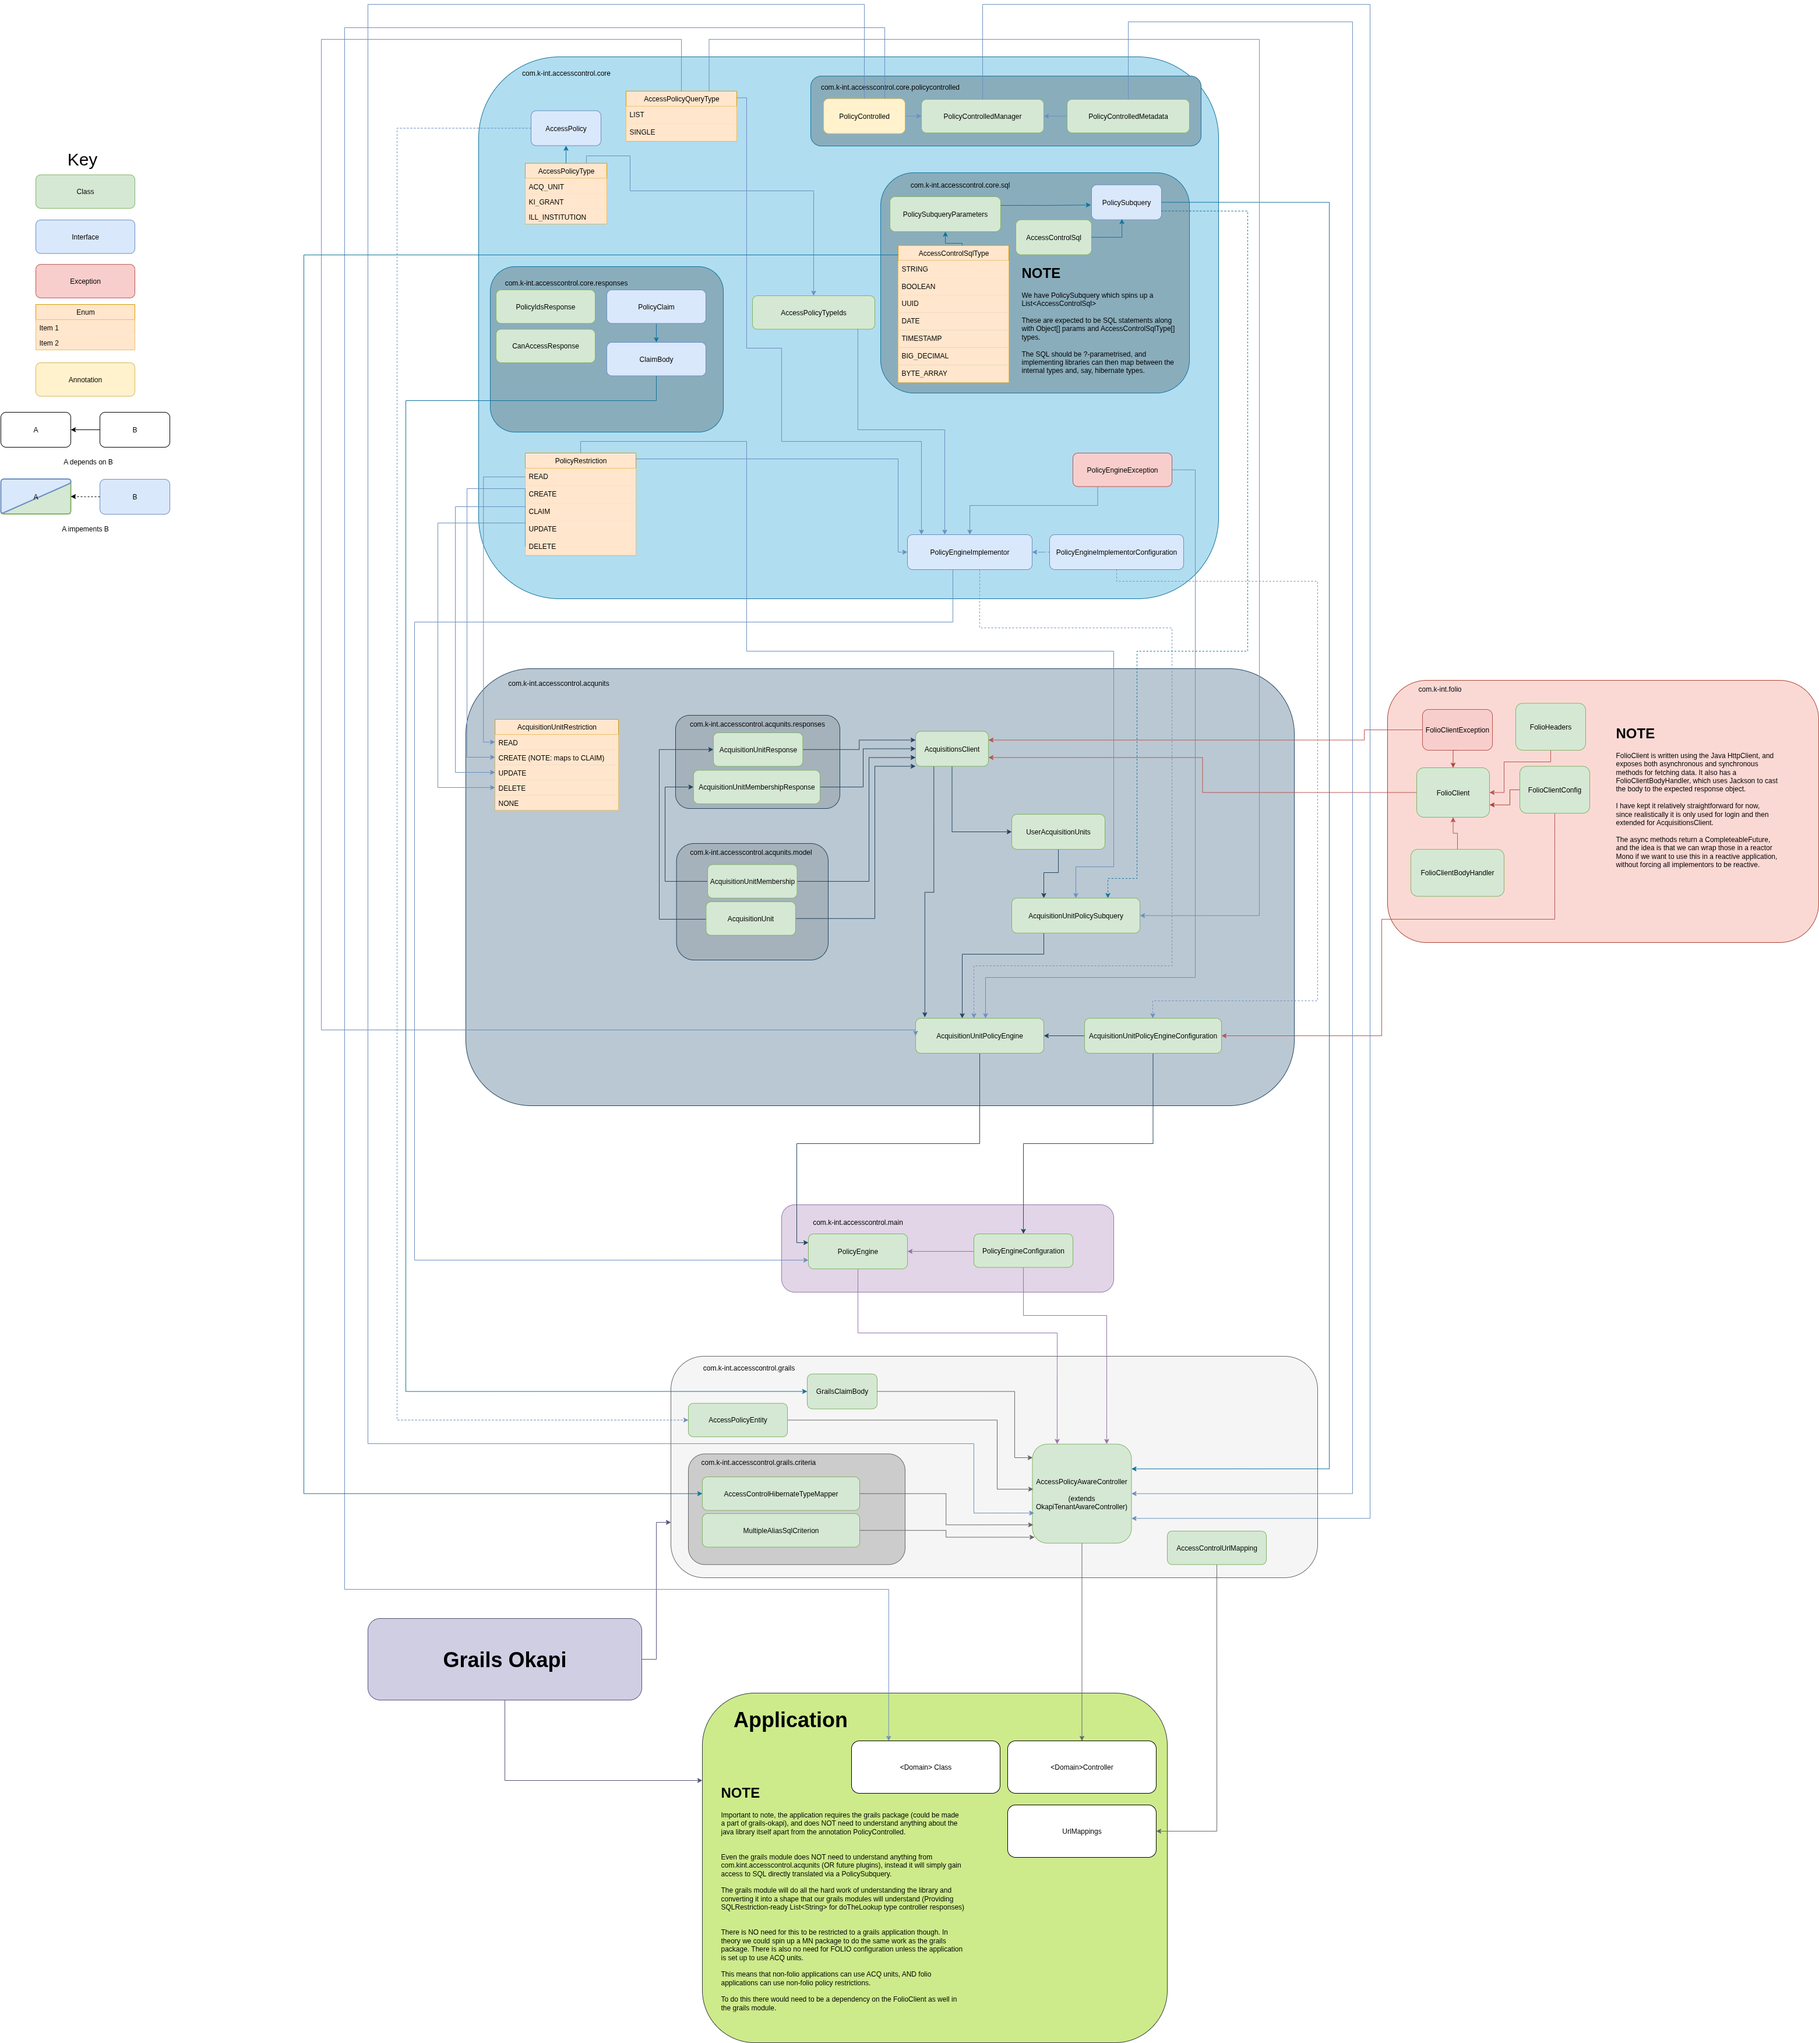
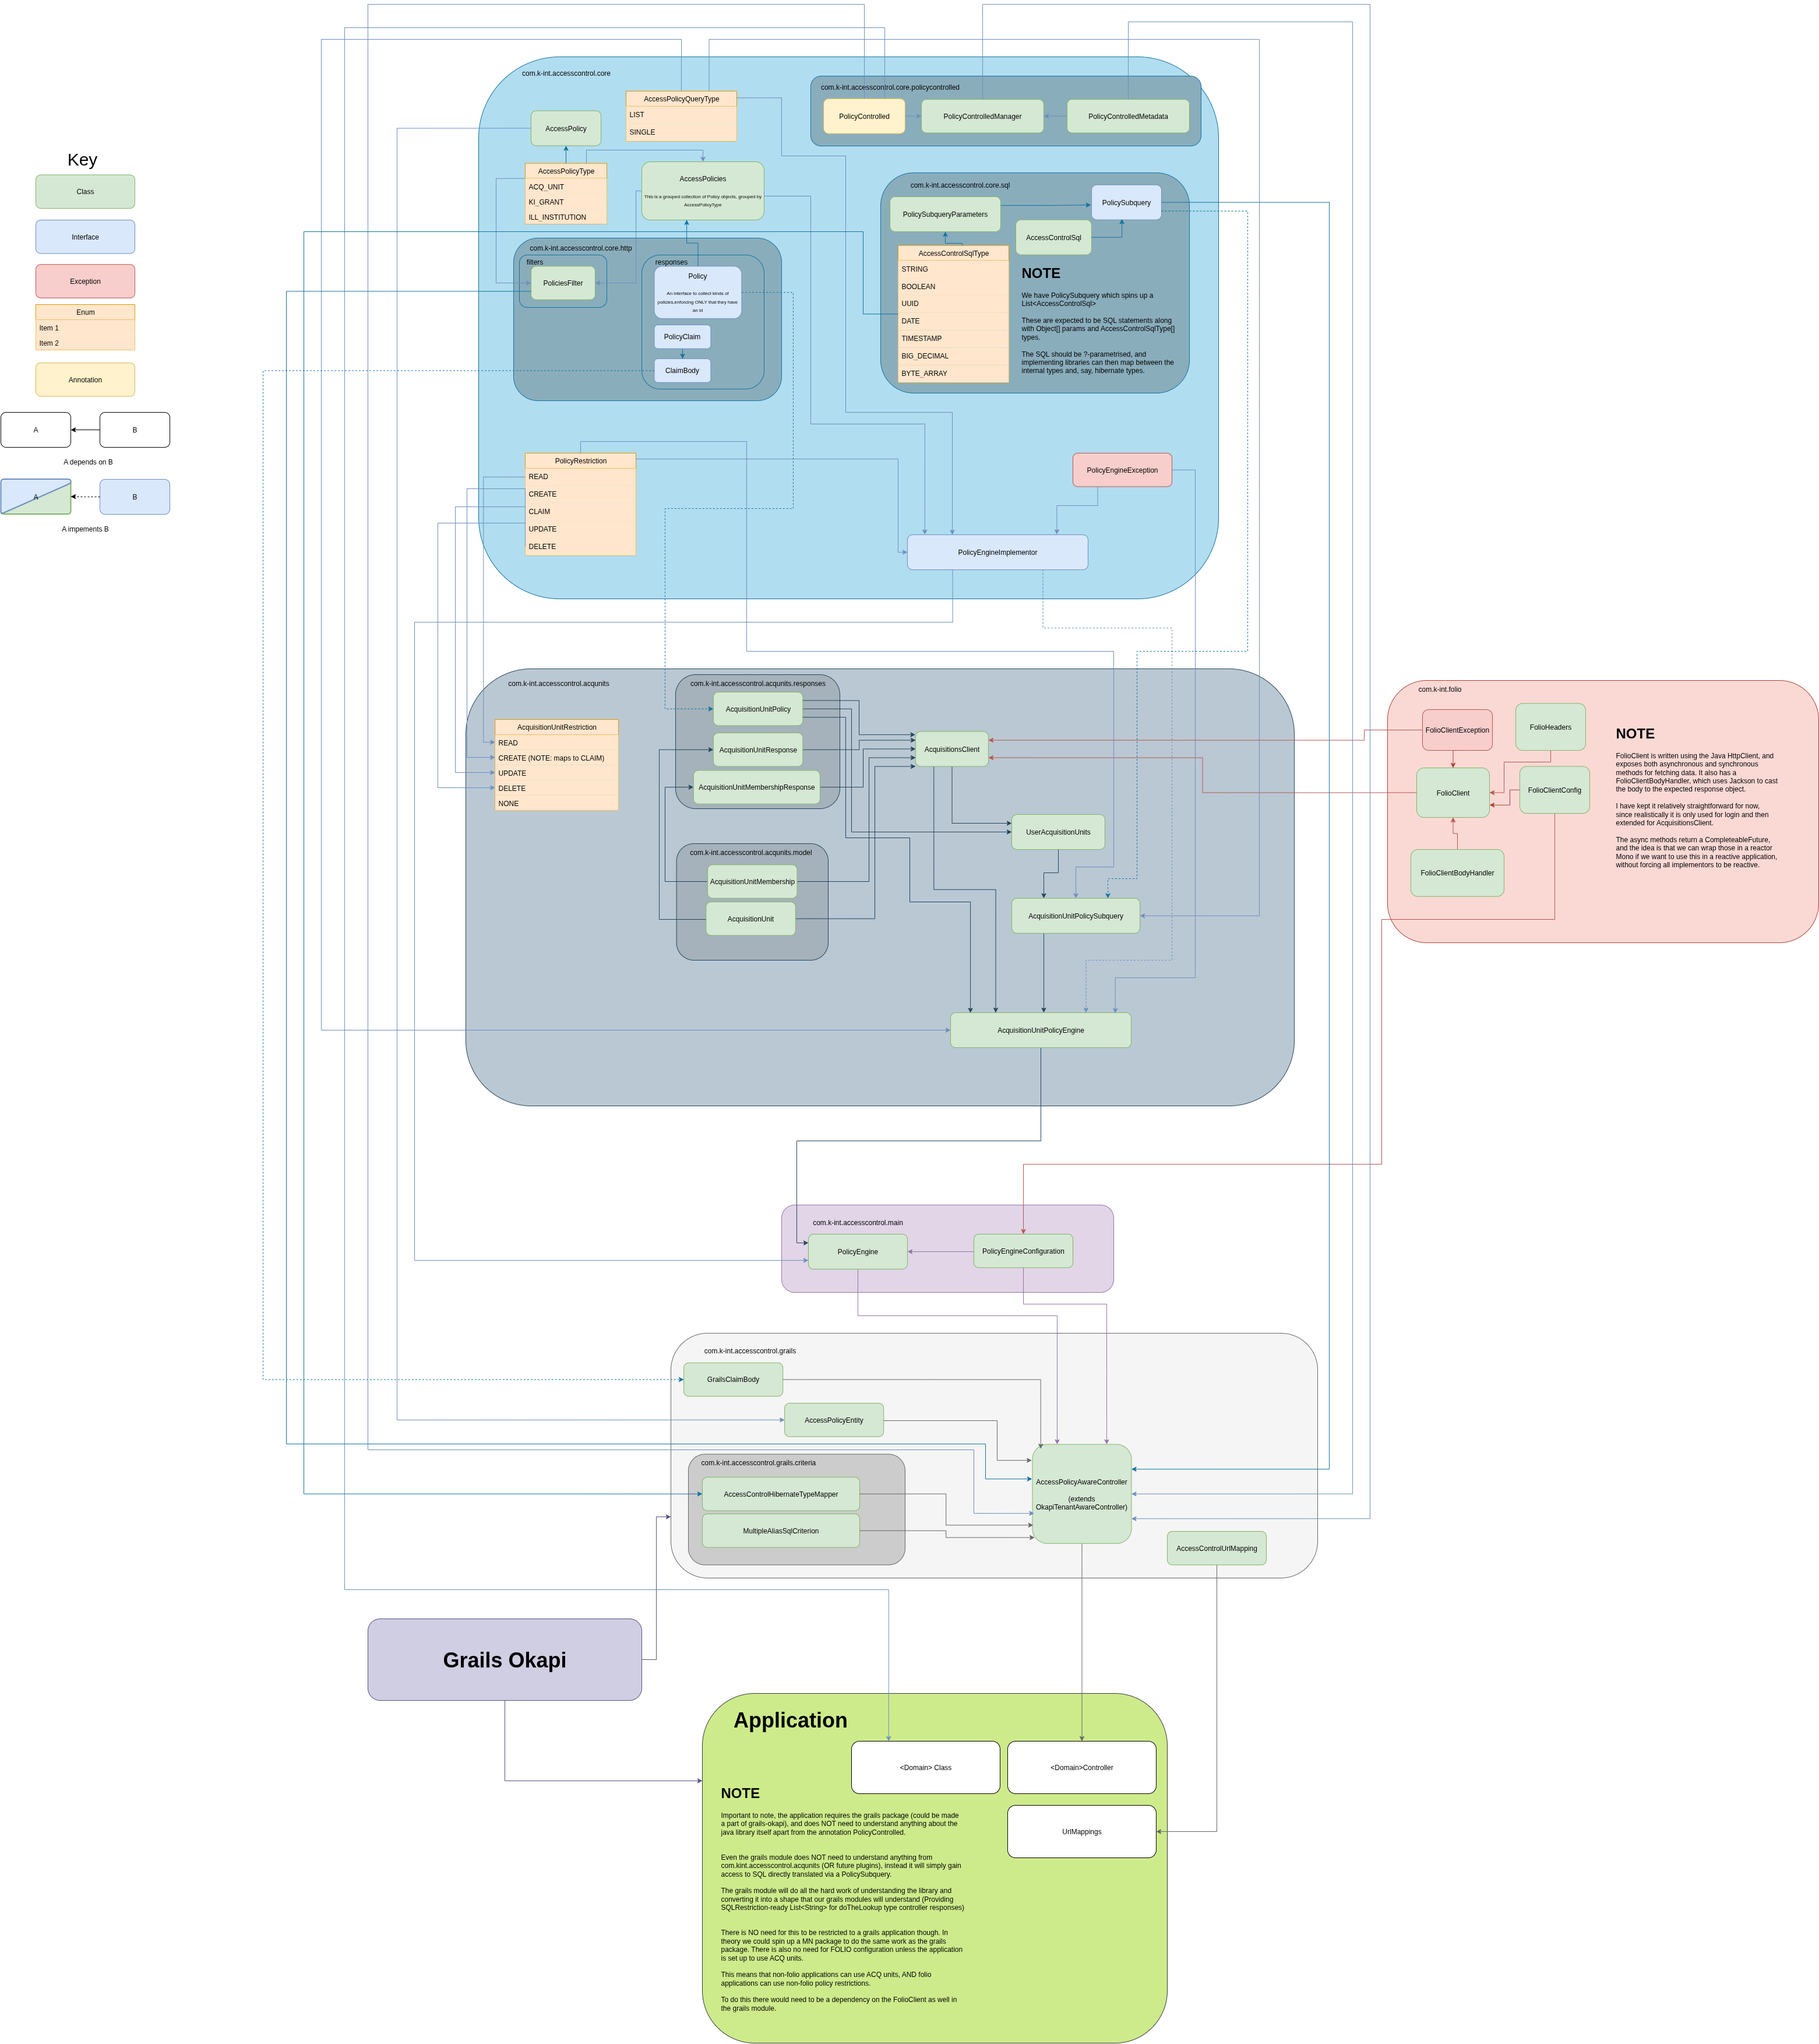
feat: PoliciesFilter
Added new class, PoliciesFilter, which houses simply a List<AccessPolicies>

This class will be used to group filters and provide additional SQL to further restrict the list of resources based on access policy objects in the implementing system

Also updated diagram

diff --git a/service/src/main/java/com/k_int/accesscontrol/core/AccessPolicies.java b/service/src/main/java/com/k_int/accesscontrol/core/AccessPolicies.java
@@ -1,17 +1,17 @@
 package com.k_int.accesscontrol.core;
 
 import com.k_int.accesscontrol.core.http.bodies.PolicyLink;
+import com.k_int.accesscontrol.core.http.filters.PoliciesFilter;
 import com.k_int.accesscontrol.core.http.responses.BasicPolicy;
 import com.k_int.accesscontrol.core.http.responses.BasicPolicyLink;
 import com.k_int.accesscontrol.core.http.responses.Policy;
+import com.k_int.accesscontrol.core.policyengine.PolicyEngineException;
 import lombok.Builder;
 import lombok.Data;
+import lombok.extern.slf4j.Slf4j;
 
 import javax.annotation.Nullable;
-import java.util.ArrayList;
-import java.util.Collection;
-import java.util.Collections;
-import java.util.List;
+import java.util.*;
 
 /**
  * Represents a collection of access policies grouped by their type.
@@ -23,6 +23,7 @@ import java.util.List;
  */
 @Data
 @Builder
+@Slf4j
 @SuppressWarnings("javadoc")
 public class AccessPolicies {
   /**
@@ -124,5 +125,60 @@ public class AccessPolicies {
         return arr1;
       }
     );
+  }
+
+  /**
+   * Collects a {@link AccessPolicies} from a comma-separated string of policy ids. The policies field will be of type
+   * {@link BasicPolicy}. Each id must be in the format `AccessPolicyType:AccessPolicyEntity.id`.
+   *
+   * @param policyString the comma-separated string of policy filters with types
+   * @return an {@link AccessPolicies} object representing the collected filters
+   * @throws PolicyEngineException if the input string is not formatted correctly or contains invalid types
+   */
+  public static List<AccessPolicies> fromString(String policyString) {
+    return Arrays.stream(policyString.split(","))
+      .reduce(
+        new ArrayList<AccessPolicies>(),
+        ( acc, curr) -> {
+          // Check that the format is valid
+          String[] parts = curr.trim().split(":");
+          if (parts.length != 2) {
+            throw new PolicyEngineException("AccessPolicies::fromString error. Invalid entry: " + curr + " -- must be of the form AccessPolicyType:AccessPolicyEntity.id");
+          }
+
+          AccessPolicyType apt;
+          try {
+            apt = AccessPolicyType.valueOf(parts[0]);
+          } catch (Exception e) {
+            throw new PolicyEngineException("AccessPolicies::fromString error. Invalid AccessPolicyType: " + parts[0]);
+          }
+
+          AccessPolicies relevantPoliciesEntry = acc.stream()
+            .filter(policiesEntry -> policiesEntry.getType() == apt)
+            .findFirst()
+            .orElse(null);
+
+          if (relevantPoliciesEntry != null) {
+            // Update existing type with new policy
+            ArrayList<Policy> updatedPolicyIds = new ArrayList<>(relevantPoliciesEntry.getPolicies());
+            updatedPolicyIds.add(BasicPolicy.builder().id(parts[1]).build());
+            relevantPoliciesEntry.setPolicies(updatedPolicyIds);
+          } else {
+            acc.add(
+              AccessPolicies.builder()
+                .type(apt)
+                .policies(Collections.singletonList(BasicPolicy.builder().id(parts[1]).build()))
+                .name("POLICY_IDS_FOR_" + apt.toString())
+                .build()
+            );
+          }
+
+          return acc;
+        },
+        (policies1, policies2) -> {
+          policies1.addAll(policies2);
+          return policies1;
+        }
+      );
   }
 }

diff --git a/service/src/main/java/com/k_int/accesscontrol/core/http/filters/PoliciesFilter.java b/service/src/main/java/com/k_int/accesscontrol/core/http/filters/PoliciesFilter.java
@@ -1,0 +1,65 @@
+package com.k_int.accesscontrol.core.http.filters;
+
+import com.k_int.accesscontrol.core.AccessPolicies;
+import com.k_int.accesscontrol.core.AccessPolicyType;
+import com.k_int.accesscontrol.core.policyengine.PolicyEngineException;
+
+import java.util.*;
+
+import lombok.Builder;
+import lombok.extern.slf4j.Slf4j;
+
+/**
+ * Helper class representing a filter containing a list of access policies.
+ * <p>
+ * This class is used to encapsulate a collection of {@link AccessPolicies},
+ * which group access policies by their type. This group will be ORed together in a filter SQL operation performed
+ * by the {@link com.k_int.accesscontrol.main.PolicyEngine}. A List<PoliciesFilter> can be used to represent multiple
+ * such groups, which will be ANDed together in the same filter operation.
+ * </p>
+ */
+@Slf4j
+@Builder
+public class PoliciesFilter {
+  /**
+   * A list of {@link AccessPolicies} to be used as filters.
+   * Each entry in the list represents a group of access policies
+   * that will be ORed together in a filter operation.
+   * @param filters A list of {@link AccessPolicies} to be used as filters.
+   * @return A list of {@link AccessPolicies} to be used as filters.
+   */
+  List<AccessPolicies> filters;
+
+  /** Constructor for PoliciesFilter.
+   * @param filters A list of {@link AccessPolicies} to be used as filters.
+   */
+  public PoliciesFilter(List<AccessPolicies> filters) {
+    this.filters = filters;
+  }
+
+  /** Create a PoliciesFilter from a string representation of policies.
+   * The string should be formatted as `{@link AccessPolicyType}:{@link com.k_int.accesscontrol.core.AccessPolicy}.id`.
+   * @param policyString The string representation of policies.
+   * @return A PoliciesFilter object.
+   * @throws PolicyEngineException If the policy string is invalid.
+   */
+  public static PoliciesFilter fromString(String policyString) {
+    return new PoliciesFilter(
+      AccessPolicies.fromString(policyString)
+    );
+  }
+
+  /** Create a list of PoliciesFilter from a collection of string representations of policies.
+   * These top level filters will be ANDed together in a filter operation, with the internal List<AccessPolicies> being
+   * ORed together. Each string should be formatted as
+   * `{@link AccessPolicyType}:{@link com.k_int.accesscontrol.core.AccessPolicy}.id`.
+   * @param policyStrings The collection of string representations of policies.
+   * @return A list of PoliciesFilter objects.
+   */
+  public static List<PoliciesFilter> fromStringCollection(Collection<String> policyStrings) {
+    return policyStrings
+      .stream()
+      .map(PoliciesFilter::fromString)
+      .toList();
+  }
+}
